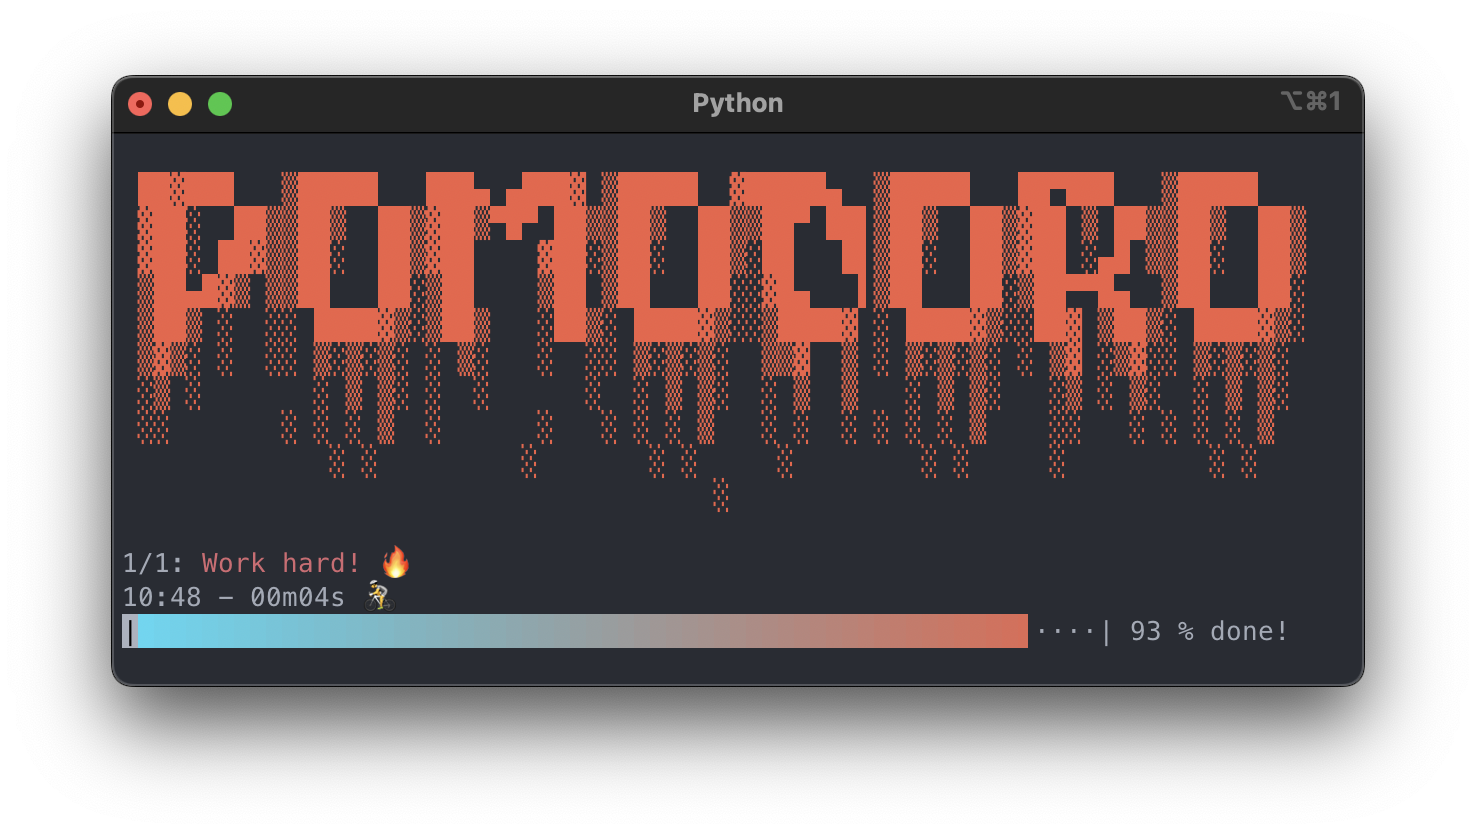
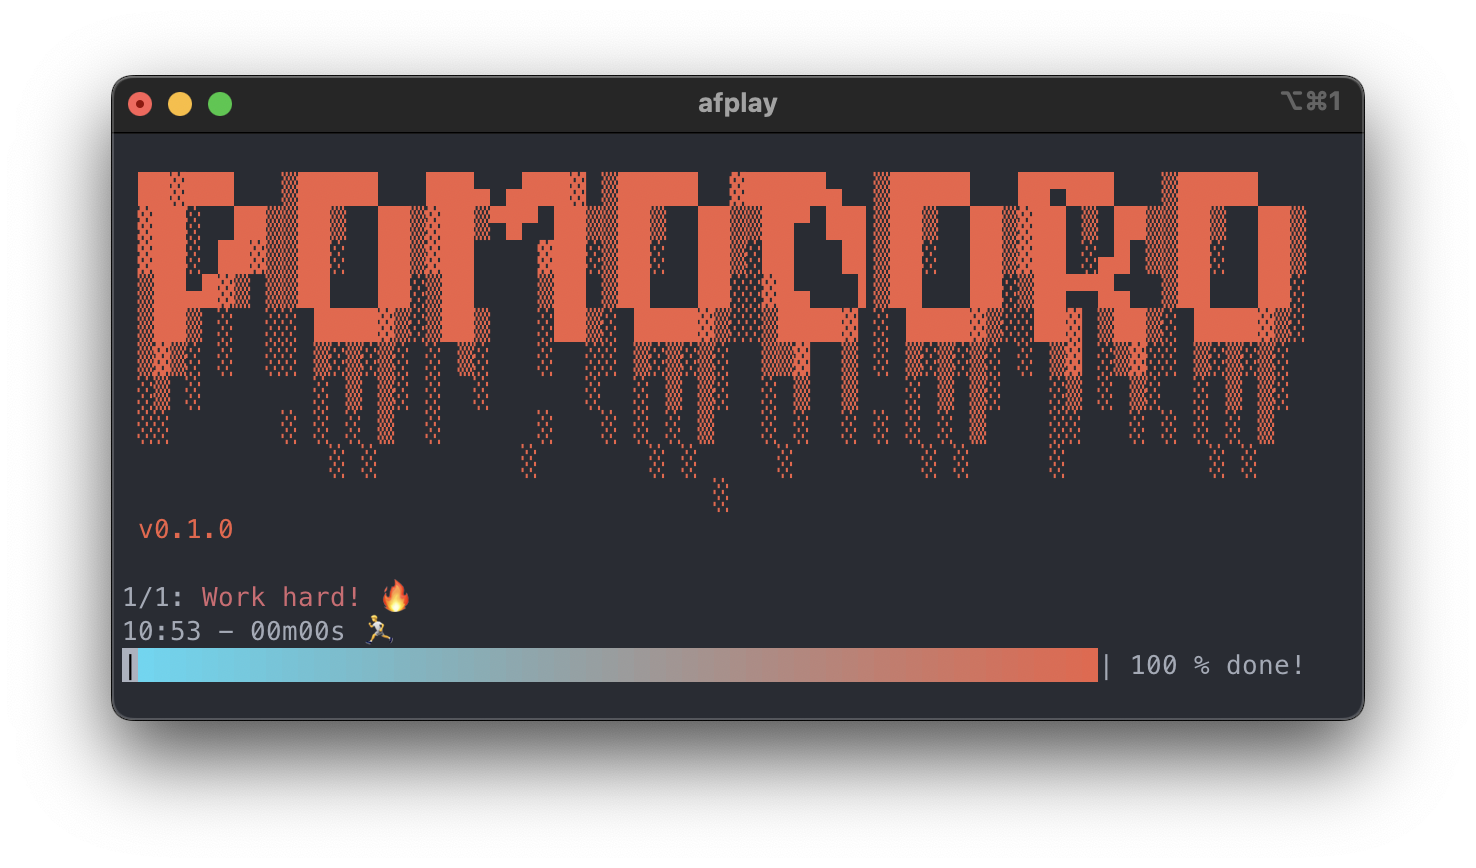
chore: :hammer: bump up version to 0.1.0

diff --git a/pypomod/pomodoro.py b/pypomod/pomodoro.py
@@ -5,6 +5,7 @@ from collections.abc import Iterable
 from datetime import datetime
 from itertools import cycle
 
+from pypomod import __version__
 from pypomod.tools import ANSI
 from pypomod.tools import clear_line
 from pypomod.tools import Emoji
@@ -31,7 +32,7 @@ def banner() -> None:
 
     color_tomato = ANSI.rgb_to_ansi(255, 99, 71)
 
-    banner_text = """
+    banner_text = f"""
  ██▓███   ▒█████   ███▄ ▄███▓ ▒█████  ▓█████▄  ▒█████   ██▀███   ▒█████
  ▓██░  ██▒▒██▒  ██▒▓██▒▀█▀ ██▒▒██▒  ██▒▒██▀ ██▌▒██▒  ██▒▓██ ▒ ██▒▒██▒  ██▒
  ▓██░ ██▓▒▒██░  ██▒▓██    ▓██░▒██░  ██▒░██   █▌▒██░  ██▒▓██ ░▄█ ▒▒██░  ██▒
@@ -42,6 +43,7 @@ def banner() -> None:
  ░░       ░ ░ ░ ▒  ░      ░   ░ ░ ░ ▒   ░ ░  ░ ░ ░ ░ ▒    ░░   ░ ░ ░ ░ ▒
              ░ ░         ░       ░ ░     ░        ░ ░     ░         ░ ░
                                      ░
+ v{__version__}
     """
 
     print(f"{color_tomato}{banner_text}{ANSI.END}")

diff --git a/pypomod/main.py b/pypomod/main.py
@@ -4,8 +4,6 @@ import argparse
 from pypomod.pomodoro import pomodoro
 from pypomod.tools import clear_terminal
 
-__version__ = "0.0.1"
-
 parser = argparse.ArgumentParser(
     prog="pympod",
     description="A simple python CLI package for the pomodoro timer.",

diff --git a/pypomod/__init__.py b/pypomod/__init__.py
@@ -1,1 +1,3 @@
 #!/usr/bin/env python3
+
+__version__ = "0.1.0"
